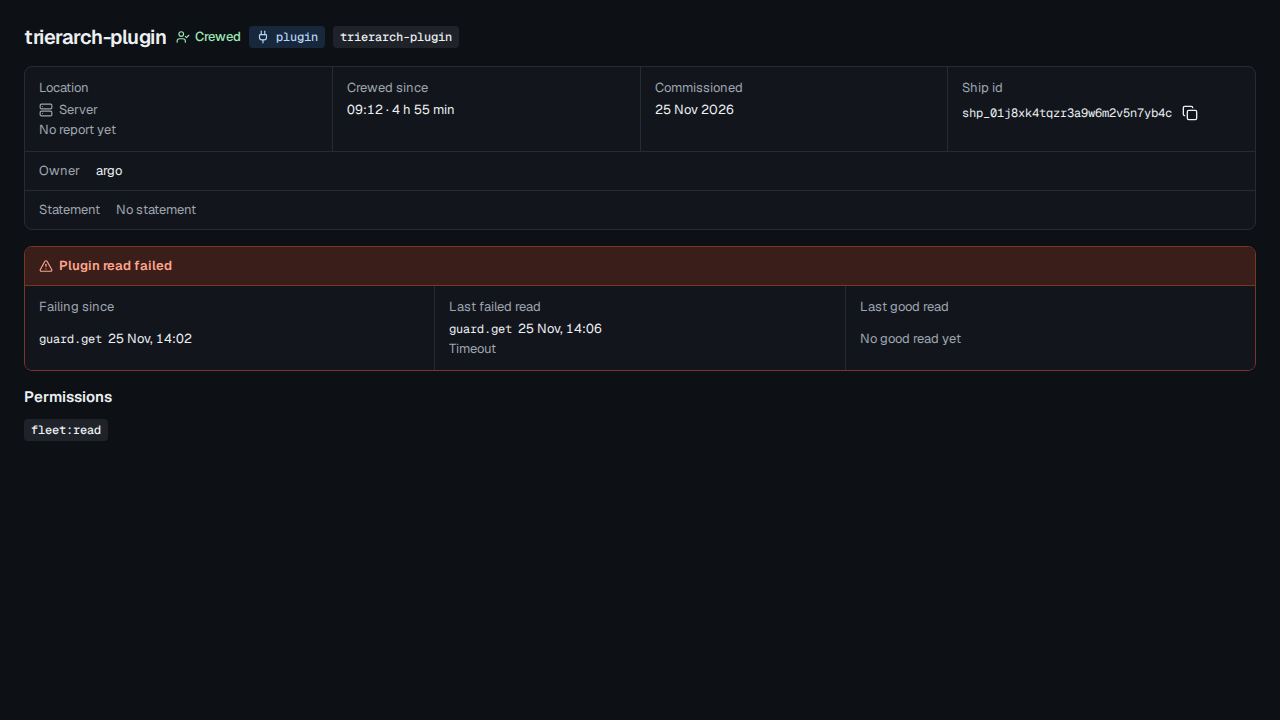
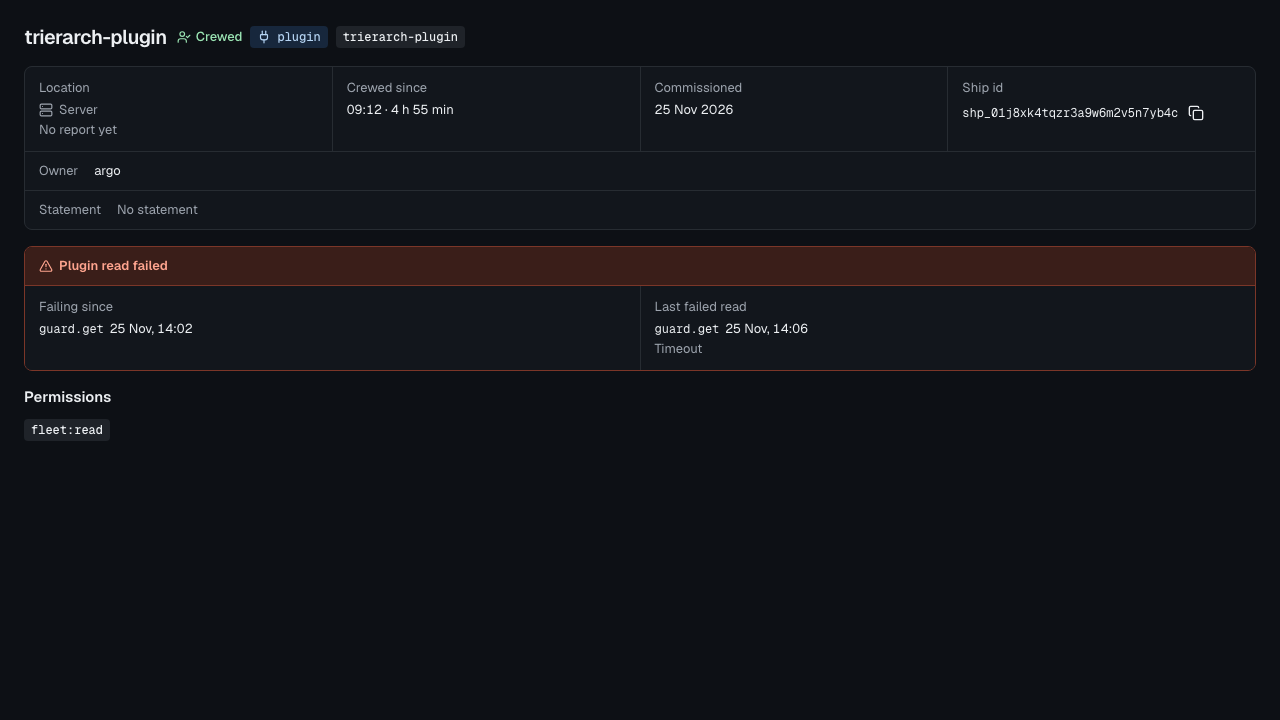
fix(console): align plugin reads and omit missing good reads

diff --git a/packages/console/features/ship/ui/molecules/plugin-read-fact.tsx b/packages/console/features/ship/ui/molecules/plugin-read-fact.tsx
@@ -15,23 +15,19 @@ const failureReasons: Record<FailedRead['reason'], string> = {
 
 function ReadRow({ label, read, reason }: {
   label: string;
-  read: PluginReads['lastGood'];
+  read: NonNullable<PluginReads['lastGood']>;
   reason?: FailedRead['reason'];
 }) {
-  const at = read === null ? null : new Date(read.at);
+  const at = new Date(read.at);
 
   return (
-    <div className="grid min-w-0 grid-cols-1 gap-1 bg-card px-3.5 py-3 max-sm:grid-cols-[7rem_minmax(0,1fr)] max-sm:gap-1.5 max-sm:py-2">
+    <div className="grid min-w-0 grid-cols-1 content-start gap-1 bg-card px-3.5 py-3 max-sm:grid-cols-[var(--size-plugin-read-label)_minmax(0,1fr)] max-sm:gap-1.5 max-sm:py-2">
       <dt className="text-meta text-muted-foreground">{label}</dt>
       <dd className="min-w-0 text-meta">
-        {read === null || at === null ? (
-          <span className="text-muted-foreground">No good read yet</span>
-        ) : (
-          <div className="flex flex-wrap items-baseline gap-x-1.5">
-            <code className="min-w-0 font-mono text-id wrap-anywhere">{read.read}</code>
-            <time dateTime={read.at} title={fullDateTime(at)} className="tabular-nums">{shortDateTime(at)}</time>
-          </div>
-        )}
+        <div className="flex flex-wrap items-baseline gap-x-1.5">
+          <code className="min-w-0 font-mono text-id wrap-anywhere">{read.read}</code>
+          <time dateTime={read.at} title={fullDateTime(at)} className="tabular-nums">{shortDateTime(at)}</time>
+        </div>
         {reason === undefined ? null : <p className="mt-0.5 text-muted-foreground">{failureReasons[reason]}</p>}
       </dd>
     </div>
@@ -60,7 +56,7 @@ export function PluginReadFact({ reads }: { reads: ShipDetail['pluginReads'] }) 
       <dl className="grid auto-cols-fr grid-flow-col gap-px bg-border max-sm:grid-flow-row">
         {failingSince && <ReadRow label="Failing since" read={failingSince} />}
         {lastFailed && <ReadRow label="Last failed read" read={lastFailed} reason={lastFailed.reason} />}
-        {(lastGood !== null || failingSince !== null) && <ReadRow label="Last good read" read={lastGood} />}
+        {lastGood && <ReadRow label="Last good read" read={lastGood} />}
       </dl>
     </section>
   );

diff --git a/packages/console/app/globals.css b/packages/console/app/globals.css
@@ -15,6 +15,7 @@
  */
 :root {
   --tab-bar-clearance: var(--size-tabbar);
+  --size-plugin-read-label: 7rem;
 }
 
 /*
